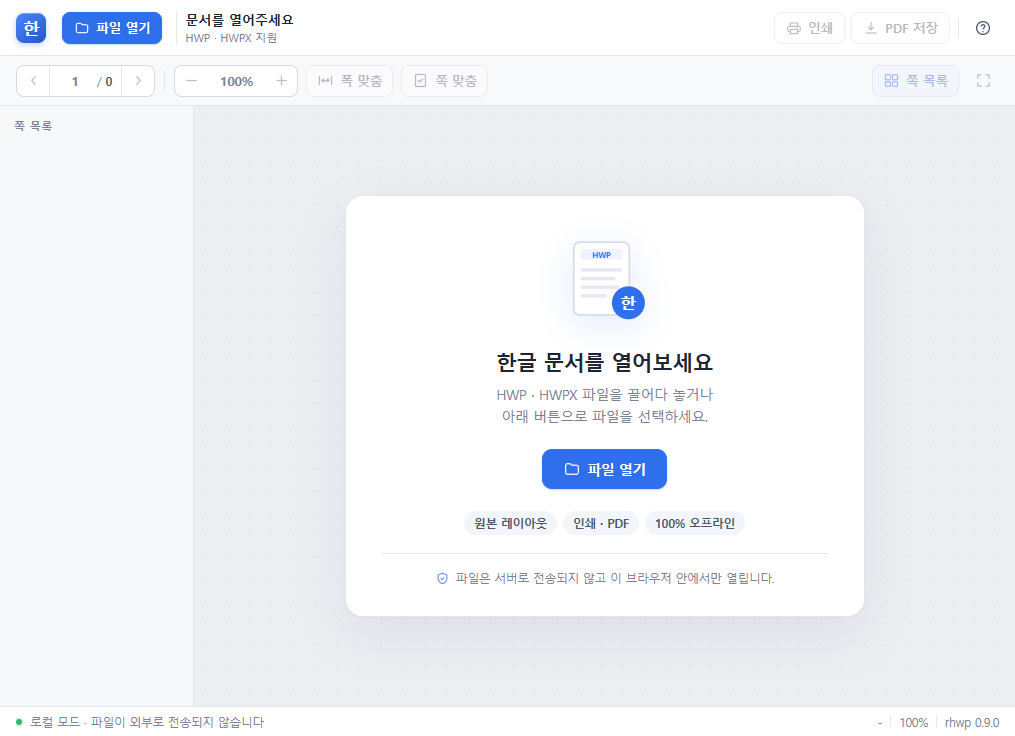
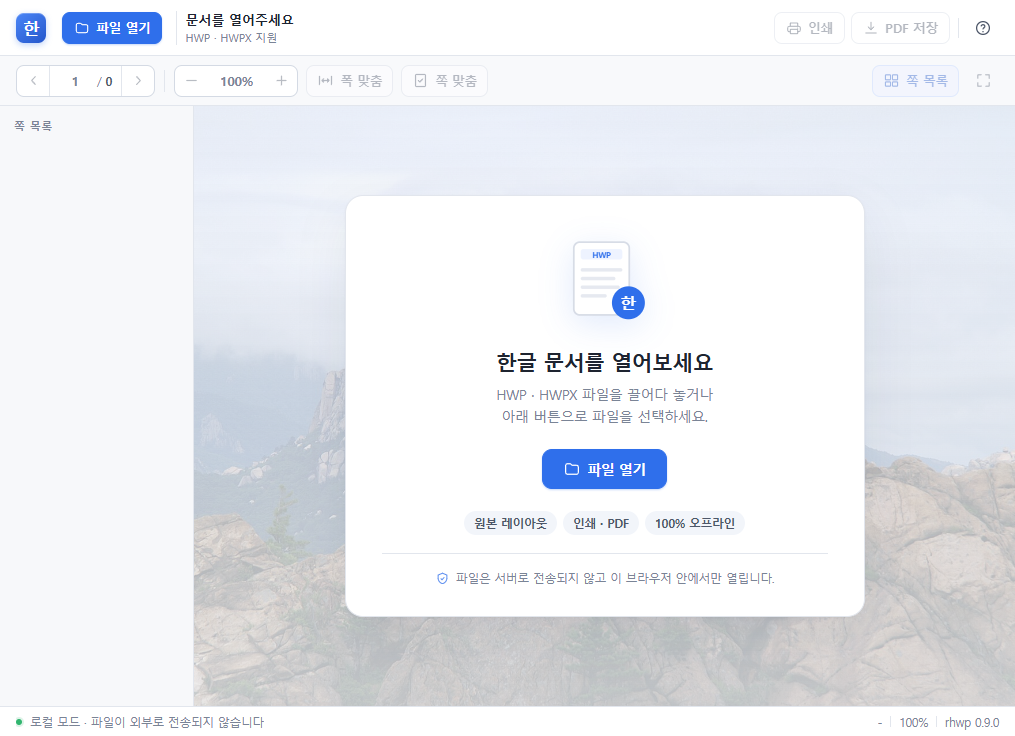
Release v1.0.1: Seoraksan background image

Changed region(s): [[0.1833, 0.4688, 1.0, 0.9688]]

diff --git a/src/styles.css b/src/styles.css
@@ -484,9 +484,15 @@ svg { flex: none; }
   min-width: 0;
   min-height: 0;
   overflow: auto;
-  background: var(--bg);
-  background-image: radial-gradient(rgba(30, 40, 60, 0.045) 1px, transparent 1px);
-  background-size: 22px 22px;
+  background-color: #dde5ee;
+  /* 대한민국의 명산(설악산) 사진 위에 옅은 안개색을 덮어 문서가 돋보이게 한다. */
+  background-image:
+    linear-gradient(180deg, rgba(238, 242, 247, 0.62), rgba(238, 242, 247, 0.8)),
+    url("/mountains.jpg");
+  background-size: cover, cover;
+  background-position: center, center 45%;
+  background-repeat: no-repeat, no-repeat;
+  background-attachment: fixed, fixed;
   scroll-behavior: auto;
 }
 
@@ -909,6 +915,16 @@ svg { flex: none; }
 
 .dialog-body ul { margin: 0; padding-left: 18px; }
 .dialog-body li { margin: 3px 0; }
+
+.dialog-body .credit {
+  margin: 18px 0 0;
+  padding-top: 12px;
+  border-top: 1px solid var(--line);
+  font-size: 11px;
+  color: var(--muted);
+}
+
+.dialog-body .credit a { color: var(--muted); }
 
 .shortcuts {
   display: grid;

diff --git a/index.html b/index.html
@@ -210,6 +210,7 @@
           <li>암호가 설정된 문서는 열 때 비밀번호를 입력받습니다.</li>
           <li>PDF 저장은 화면에 보이는 그대로 이미지 형태로 만들어집니다.</li>
         </ul>
+        <p class="credit">한글 뷰어 v1.0.1 · 배경 사진: 설악산 · Olga Lipunova · <a href="https://creativecommons.org/licenses/by-sa/3.0" target="_blank" rel="noopener noreferrer">CC BY-SA 3.0</a></p>
       </div>
       <div class="dialog-foot">
         <button class="btn primary" value="close" type="submit">확인</button>

diff --git a/docs/release-notes-v1.0.1.md b/docs/release-notes-v1.0.1.md
@@ -1,0 +1,85 @@
+# 한글 뷰어 v1.0.1
+
+HWP 5.0과 HWPX 문서를 원본 레이아웃 그대로 열어 보는 Windows용 로컬 뷰어입니다.
+모든 렌더링은 PC 안에서 이루어지며, 문서는 외부로 전송되지 않습니다.
+
+![문서 보기 화면](https://raw.githubusercontent.com/narayo20/hangul-viewer/main/docs/screenshot.png)
+
+## 다운로드
+
+| 파일 | 크기 | 설명 |
+| --- | --- | --- |
+| **HangulViewer-1.0.1.exe** | 26 MB | 설치 없이 실행하는 Windows 단일 실행 파일 |
+
+- **지원 환경**: Windows 10 / 11 (64-bit)
+- **필수 런타임**: Microsoft Edge WebView2 Runtime
+  (Windows 11 기본 포함, Windows 10은 대부분 설치됨)
+  - 없다면 [WebView2 다운로드](https://developer.microsoft.com/microsoft-edge/webview2/)에서 설치하세요.
+- 실행: 내려받은 `.exe`를 더블클릭합니다.
+- SmartScreen 경고가 나오면 **추가 정보 → 실행**을 선택하세요.
+  (서명되지 않은 오픈소스 실행 파일입니다.)
+
+### 체크섬
+
+```text
+SHA-256  E4CAFD8EB732E08772355A25F28C82B9DC08537603531CBFF6E5DB319436F65B
+```
+
+## v1.0.1 변경 사항
+
+- 프로그램 배경을 대한민국의 명산인 **설악산** 사진으로 변경
+- 문서 가독성을 위해 배경 위에 옅은 안개색 오버레이 적용
+- 도움말에 버전 및 사진 출처 표기
+
+## 주요 기능
+
+- HWP 5.0(바이너리) · HWPX(OWPML) 자동 인식
+- 문단, 표, 이미지, 머리말/꼬리말, 각주, 도형을 SVG로 렌더링
+- 쪽 목록 미리보기 및 쪽 번호 이동
+- 10%~400% 확대/축소, 폭 맞춤, 쪽 맞춤
+- 벡터 기반 인쇄 및 PDF 저장
+- 암호 문서 열기
+- 드래그 앤 드롭으로 파일 열기
+- 완전 오프라인 동작 (파일 업로드 없음)
+
+## 사용법
+
+1. **파일 열기** 버튼을 누르거나 `.hwp` / `.hwpx` 파일을 창에 끌어다 놓습니다.
+2. 왼쪽 쪽 목록이나 상단의 쪽 번호로 이동합니다.
+3. 툴바에서 배율을 조절하고 **인쇄** 또는 **PDF 저장**을 누릅니다.
+
+### 단축키
+
+| 동작 | 단축키 |
+| --- | --- |
+| 파일 열기 | `Ctrl + O` |
+| 인쇄 | `Ctrl + P` |
+| PDF 저장 | `Ctrl + S` |
+| 확대 / 축소 | `Ctrl + +` / `Ctrl + -` |
+| 폭 맞춤 | `Ctrl + 0` |
+| 이전 / 다음 쪽 | `Alt + ←` / `Alt + →` |
+| 전체 화면 | `F11` |
+
+## 알려진 제한
+
+- HWP 3.0 이하, HML 등 일부 오래된 형식은 지원 범위가 제한적입니다.
+- 문서에 사용된 특수 글꼴이 PC에 없으면 글자 폭과 줄바꿈이 원본과 조금 달라질 수 있습니다.
+- 암호 문서는 비밀번호를 3회까지 입력할 수 있습니다.
+- 300MB를 넘는 파일은 열지 않습니다.
+- PDF 저장은 페이지를 이미지로 변환하므로 파일 크기가 커질 수 있습니다.
+- 문서를 수정하거나 저장하지 않는 읽기 전용 뷰어입니다.
+
+## 이미지 출처
+
+배경 사진: **설악산 국립공원** · Olga Lipunova · [CC BY-SA 3.0](https://creativecommons.org/licenses/by-sa/3.0/)
+· [Wikimedia Commons](https://commons.wikimedia.org/wiki/File:Seoraksan_National_Park,_landscape.jpg)
+
+## 라이선스
+
+- 뷰어 UI 코드: MIT
+- [@rhwp/core](https://github.com/edwardkim/rhwp): MIT
+- [jsPDF](https://github.com/parallax/jsPDF): MIT
+- [Vite](https://vite.dev/): MIT
+
+"한글", "한컴", "HWP", "HWPX"는 주식회사 한글과컴퓨터의 등록 상표입니다.
+이 프로그램은 한글과컴퓨터와 제휴·후원·보증 관계가 없는 독립 오픈소스 프로젝트입니다.

diff --git a/docs/CREDITS.md b/docs/CREDITS.md
@@ -1,0 +1,23 @@
+# 이미지 및 오픈소스 출처
+
+## 배경 사진
+
+- **설악산 국립공원 (Seoraksan National Park, landscape)**
+- 촬영/제작: **Olga Lipunova**
+- 라이선스: [CC BY-SA 3.0](https://creativecommons.org/licenses/by-sa/3.0/)
+- 원본: [Wikimedia Commons](https://commons.wikimedia.org/wiki/File:Seoraksan_National_Park,_landscape.jpg)
+- 변경 사항: 원본을 1920px로 축소하고, 앱 화면에서 문서가 잘 보이도록 옅은 안개색 오버레이를 합성해 사용했습니다.
+- 파일: `public/mountains.jpg`
+
+## 오픈소스
+
+- [@rhwp/core](https://github.com/edwardkim/rhwp) — MIT
+- [jsPDF](https://github.com/parallax/jsPDF) — MIT
+- [Vite](https://vite.dev/) — MIT
+- [pywebview](https://pywebview.flowrl.com/) — BSD-3-Clause
+- [PyInstaller](https://pyinstaller.org/) — GPL-2.0-or-later (빌드 도구)
+
+## 상표
+
+"한글", "한컴", "HWP", "HWPX"는 주식회사 한글과컴퓨터의 등록 상표입니다.
+이 프로그램은 한글과컴퓨터와 제휴·후원·보증 관계가 없는 독립 오픈소스 프로젝트입니다.
